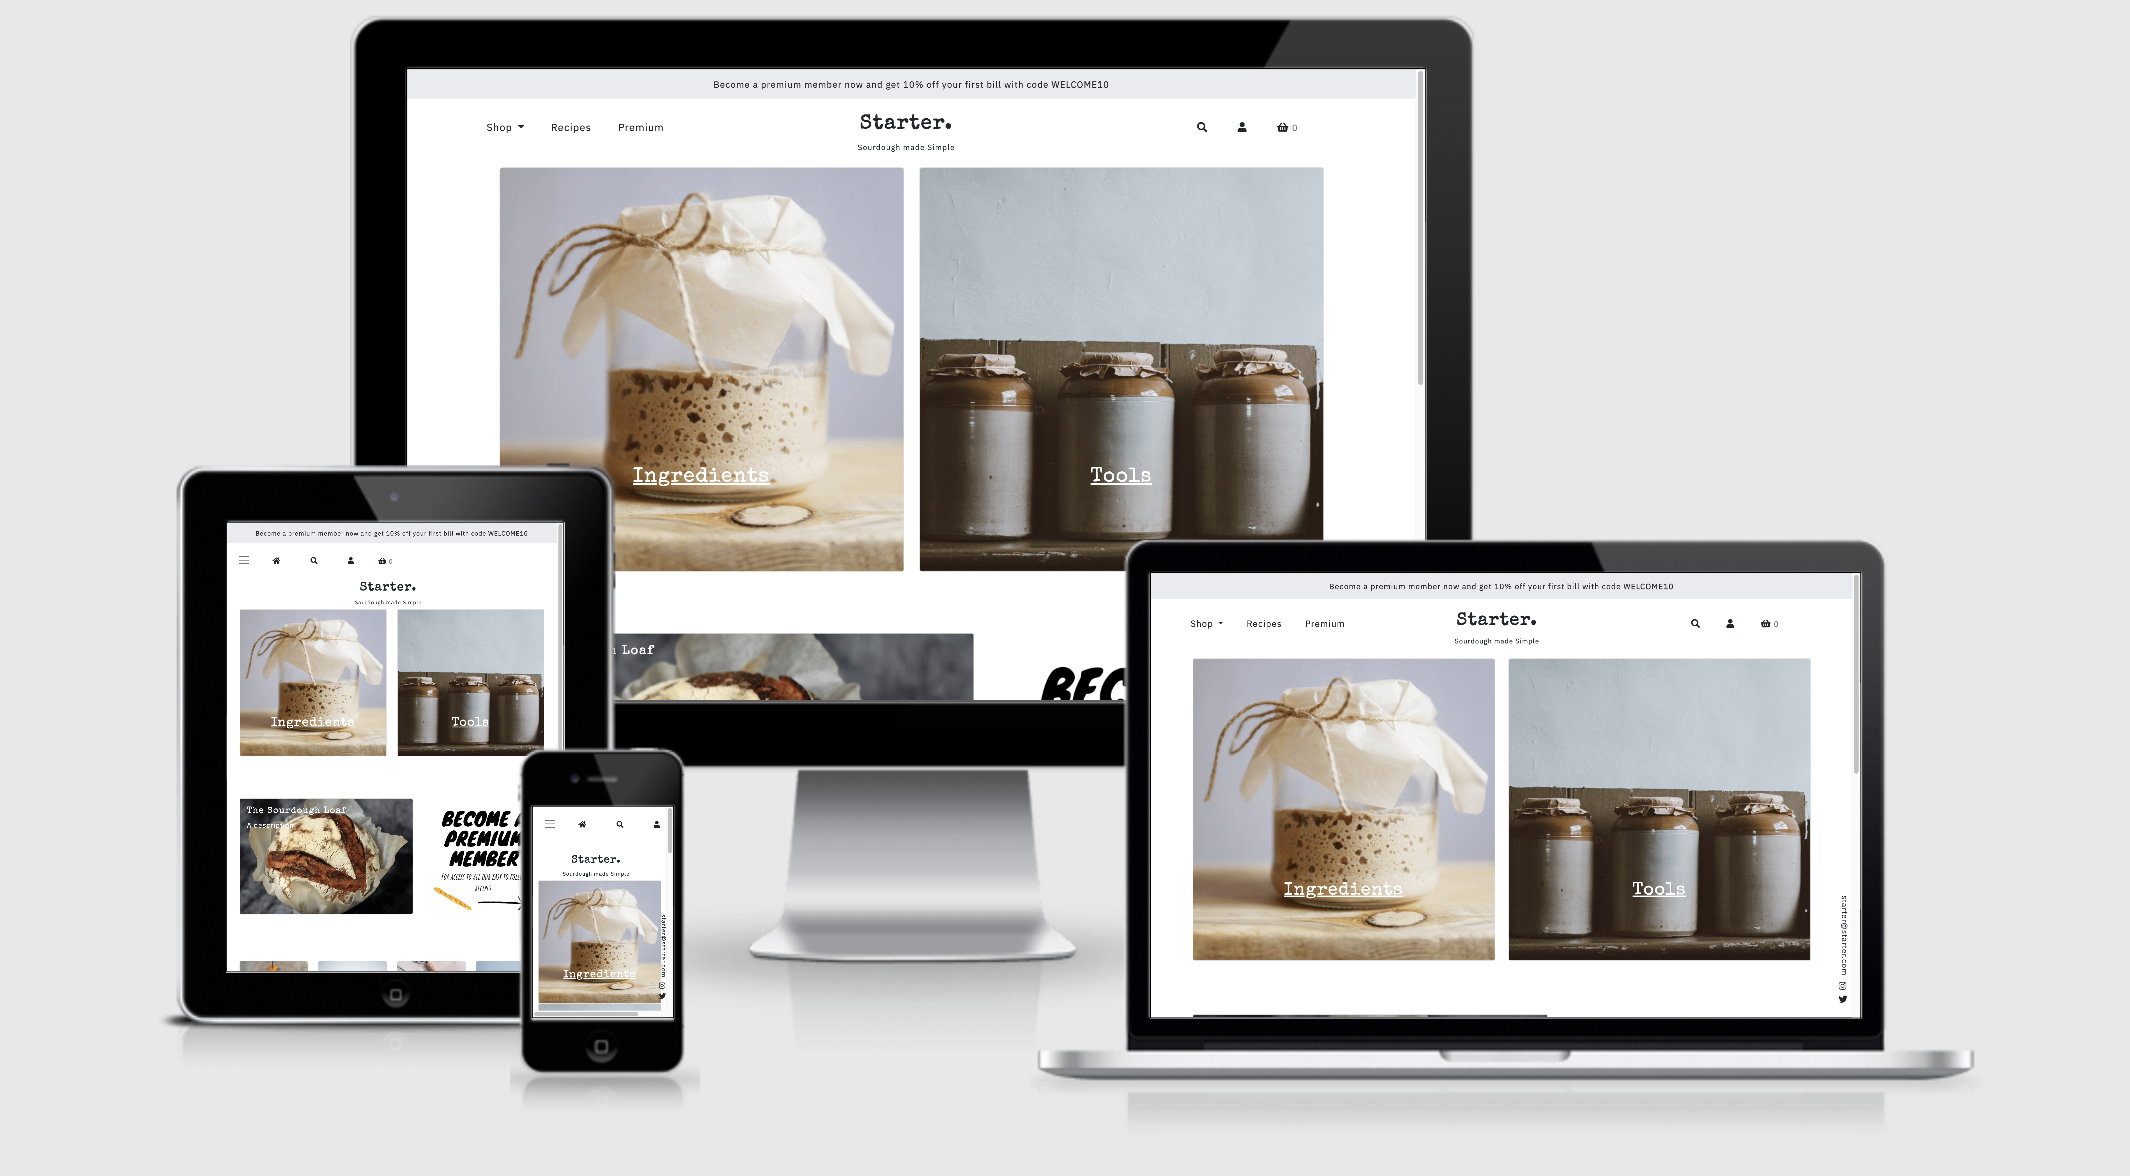
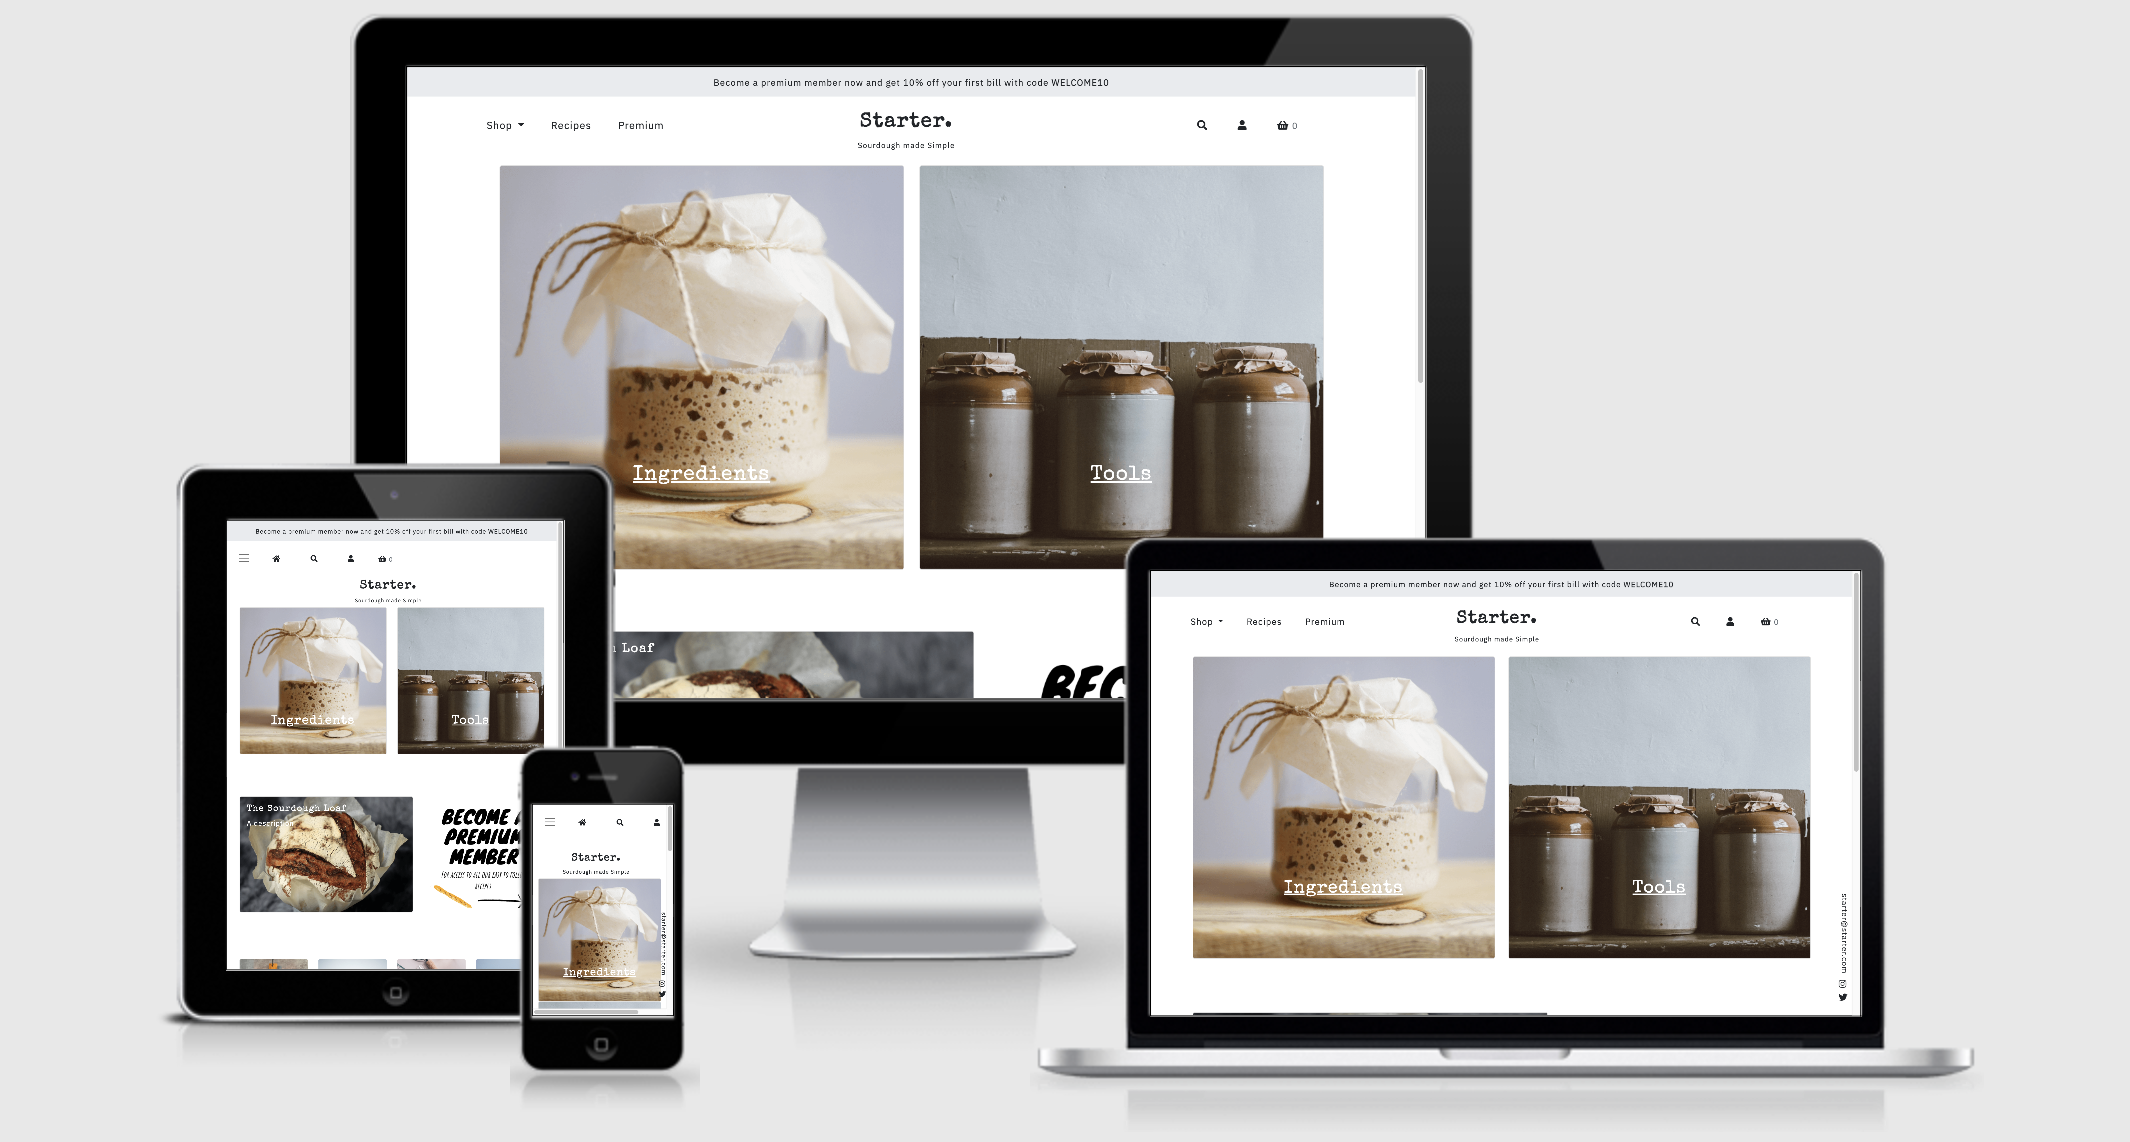
Re-style navbar

diff --git a/templates/base.html b/templates/base.html
@@ -98,24 +98,24 @@
                                 aria-expanded="false">
                                 <i class="fas fa-user"></i>
                             </a>
-                            <div class="dropdown-menu border-0 w-100 py-4 bg-white">
-                                <ul class="list-inline list-unstyled float-end account-dropdown"
+                            <div class="dropdown-menu border-0 w-100 bg-white">
+                                <ul class="list-unstyled float-end text-end account-dropdown"
                                     aria-labelledby="navbarDropdown">
                                     {% if request.user.is_authenticated %}
                                         {% if request.user.is_superuser %}
-                                        <li class="list-inline-item"><a class="dropdown-item" href="{% url 'add_product' %}">Product
+                                        <li><a class="dropdown-item" href="{% url 'add_product' %}">Product
                                                 Management</a></li>
-                                        <li class="list-inline-item"><a class="dropdown-item" href="{% url 'add_recipe' %}">Recipe Management</a>
+                                        <li><a class="dropdown-item" href="{% url 'add_recipe' %}">Recipe Management</a>
                                         </li>
                                         {% endif %}
-                                        <li class="list-inline-item"><a class="dropdown-item"
+                                        <li><a class="dropdown-item"
                                                 href="{% url 'profile' %}">Account</a></li>
-                                        <li class="list-inline-item"><a class="dropdown-item"
+                                        <li><a class="dropdown-item"
                                                 href="{% url 'account_logout' %}">Sign Out</a></li>
                                         {% else %}
-                                        <li class="list-inline-item"><a class="dropdown-item"
+                                        <li><a class="dropdown-item"
                                                 href="{% url 'account_login' %}">Sign In</a></li>
-                                        <li class="list-inline-item"><a class="dropdown-item"
+                                        <li><a class="dropdown-item"
                                                 href="{% url 'account_signup' %}">Sign Up</a></li>
                                     {% endif %}
                                 </ul>

diff --git a/templates/includes/main-nav.html b/templates/includes/main-nav.html
@@ -4,12 +4,12 @@
             <a id="serviceList" class="nav-link btn dropdown-toggle hvr" href="" role="button" data-bs-toggle="dropdown" aria-expanded="false">
                 Shop
             </a>
-            <div class="dropdown-menu border-0 w-100 my-0 bg-white py-4 ps-5">
-                <ul class="list-inline list-unstyled" aria-labelledby="navbarDropdown">
-                    <li class="list-inline-item"><a class="dropdown-item" href="{% url 'products' %}">All</a></li>
-                    <li class="list-inline-item"><a class="dropdown-item"
+            <div class="dropdown-menu border-0 w-100 my-0 bg-white ps-5">
+                <ul class="list-unstyled" aria-labelledby="navbarDropdown">
+                    <li class="w-25"><a class="dropdown-item" href="{% url 'products' %}">All</a></li>
+                    <li class="w-25"><a class="dropdown-item"
                             href="{% url 'products' %}?category=tools">Tools</a></li>
-                    <li class="list-inline-item"><a class="dropdown-item"
+                    <li class="w-25"><a class="dropdown-item"
                             href="{% url 'products' %}?category=ingredients">Ingredients</a></li>
                 </ul>
             </div>
